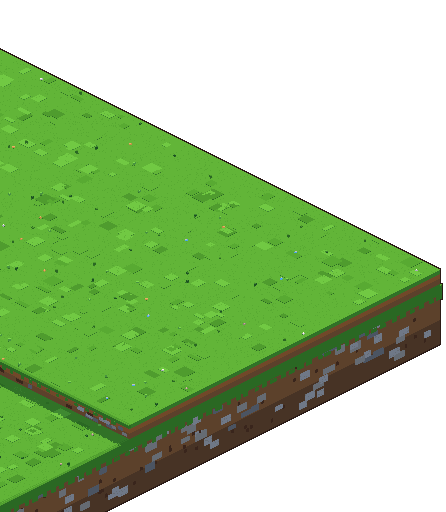
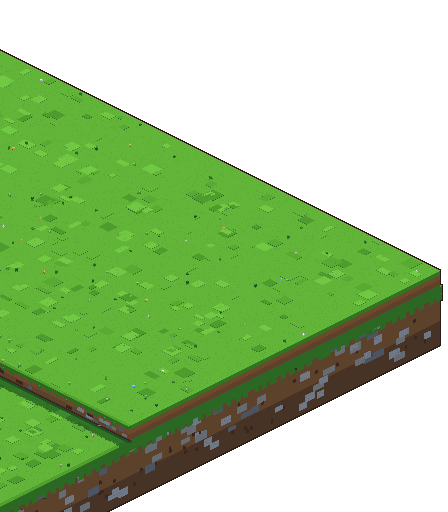
Town step 4: terraces fix round 1 (hidden low ground, cliff clicks, ramp entrances, cliff shadow, art sync guard)
- grid blocks the low ground hidden behind west/north-facing cliffs (2 cells per
  14-unit step), so nobody stands where the hill top is drawn over them.
- toWorld marches the pixel's ray from the front: a hill top wins over the low
  ground behind it, and a click on a cliff face snaps to the open cell at its base.
- Trees moved off the ramp entrances and out of the hidden strip.
- Terrain art: a contact shadow at each cliff foot; terrain.json carries a
  levelsHash of town.json levels and ramps, checked by art-output.test.

Claude-Session: https://claude.ai/code/session_01PNVRsGpaL8ajqgKm3RZjXP

diff --git a/public/town-render.js b/public/town-render.js
@@ -11,7 +11,7 @@
   const MIN_W = 900, MIN_H = 560; // css px of map that must stay in view
   const CHAR_CAP = 128; // soft cap on cached character textures; own agents and friends share it, and lruEvict never drops one on screen
   const FEET = [9, 25]; // OfficeSprites pixel under the feet (same as office-world drawPerson)
-  let O = [961, 32]; // terrain.json originPx; mount() replaces it with the loaded value
+  let O = [961, 33]; // terrain.json originPx; mount() replaces it with the loaded value
 
   const project = (x, y, z) => [O[0] + K * (x - y), O[1] + K2 * (x + y) - z];
   // Inverse of project at z = 0: terrain px -> world units.
@@ -90,13 +90,25 @@
     const cl = (v, half, size) => size <= half * 2 ? size / 2 : Math.min(size - half, Math.max(half, v));
     return { left: cl(px, w / 2, tw) - w / 2, top: cl(py, h / 2, th) - h / 2, w, h };
   }
-  // css px inside the canvas -> world x,y on the ground, for a laid-out view (k: backing px per css px). Unproject at z = 0,
-  // then twice more at the ground height found there (enough for 14-unit steps).
+  // css px inside the canvas -> world x,y on the ground, for a laid-out view (k: backing px per css px). With land levels the
+  // pixel's ray is marched from the front (nearest the camera) back until it meets the ground: the first hit is what the
+  // pixel shows, so a hill top wins over the low ground hidden behind it. A hit on a level top or ramp is refined by
+  // re-projecting at heightAt; a hit on a cliff face snaps to the low ground at the cliff's base, just in front of it.
   function toWorldAt(cx, cy, left, top, zoom, k) {
-    const sx = left + cx * k / zoom, sy = top + cy * k / zoom;
-    let p = unproject(sx, sy);
-    for (let i = 0; i < 2; i++) p = unproject(sx, sy + (root.TownMap ? root.TownMap.heightAt(M, p[0], p[1]) : 0));
-    return p;
+    const sx = left + cx * k / zoom, sy = top + cy * k / zoom, TM = root.TownMap, p0 = unproject(sx, sy);
+    const top_ = M && TM ? Math.max(0, ...(M.levels || []).map(t => t.level)) * TM.LEVEL_H : 0;
+    if (!top_) return p0;
+    const H = (x, y) => TM.heightAt(M, x, y), STEP = 0.5, RISE = 2 * K2; // along the ray (+1, +1) per unit, z rises 2 x K2
+    let prev = null;
+    for (let s = Math.ceil(top_ / RISE / STEP) * STEP; s >= 0; s -= STEP) {
+      const q = [p0[0] + s, p0[1] + s], z = s * RISE, h = H(q[0], q[1]);
+      if (h < z - 1e-6) { prev = q; continue; }
+      if (prev && H(prev[0], prev[1]) < h - 1e-6 && h - z > RISE * STEP + 1e-6) return prev; // entered under a higher top: a cliff face, so its base
+      let p = unproject(sx, sy + h);
+      for (let i = 0; i < 2; i++) p = unproject(sx, sy + H(p[0], p[1]));
+      return p;
+    }
+    return p0;
   }
   // Backing store = css px x renderScale (G.renderScale already has the HiDPI cap applied, so dpr is 1 here), and the zoom.
   function backingSize(canvas, G) {

diff --git a/public/town-map.js b/public/town-map.js
@@ -43,6 +43,16 @@
       if (!v || onRamp(cc, r)) continue;
       if ([[1, 0], [-1, 0], [0, 1], [0, -1]].some(([dc, dr]) => { const a = cc + dc, b = r + dr; return a >= 0 && b >= 0 && a < cols && b < rows && lv(a, b) < v; }))
         out.push([cc * c, r * c, cc * c + c, r * c + c]);
+      // A west- or north-facing cliff faces away from the camera: its raised top is drawn over the low ground just behind
+      // it (the lift / (2 x 0.3536) units deep), so a walker there would show on top of the hill. Block that strip.
+      for (const [dc, dr] of [[-1, 0], [0, -1]]) {
+        const low = cc + dc >= 0 && r + dr >= 0 ? lv(cc + dc, r + dr) : v;
+        if (low >= v) continue;
+        for (let k = 1, n = Math.ceil((v - low) * LEVEL_H / 0.7071 / c); k <= n; k++) {
+          const a = cc + dc * k, b = r + dr * k;
+          if (a >= 0 && b >= 0 && !onRamp(a, b)) out.push([a * c, b * c, a * c + c, b * c + c]);
+        }
+      }
     }
     for (const { rect: [x0, y0, x1, y1], dir } of d.ramps || [])
       out.push(...(dir === 'n' || dir === 's' ? [[x0 - c, y0, x0, y1], [x1, y0, x1 + c, y1]] : [[x0, y0 - c, x1, y0], [x0, y1, x1, y1 + c]]));

diff --git a/art/blender/town_terrain.py b/art/blender/town_terrain.py
@@ -81,6 +81,8 @@ for r, lv in sorted(LEVELS, key=lambda t: t[1]):
     for (a, b) in spans(x0, x1, [(n[0], n[2]) for n in notches]):  # south (+y) face, seen from the camera
         if y1 >= D: continue
         box(a, y1 - 0.2, H - 0.3, b - a, 0.35, 0.3, '#4f8f35')  # a thin grass lip, so the soil face shows
+        z0 = base(a, y1 + .1)  # contact shadow on the low ground at the cliff foot, so the step reads as height
+        box(a, y1, z0 + 0.04, b - a + 0.5, 0.55, 0.02, '#3f7a2c'); box(a, y1, z0 + 0.05, b - a + 0.25, 0.22, 0.02, '#5a3a28')
         for i in range(int((b - a) / 1.3)): box(a + i * 1.3 + rnd.uniform(0, .3), y1 + 0.15, H - 0.55, rnd.uniform(.3, .7), 0.1, rnd.uniform(.2, .35), '#4f8f35')
         for _ in range(int((b - a) * 1.2)):
             z0 = base(rnd.uniform(a, b), y1 + .1)
@@ -88,6 +90,8 @@ for r, lv in sorted(LEVELS, key=lambda t: t[1]):
     for (a, b) in spans(y0, y1, [(n[1], n[3]) for n in notches]):  # east (+x) face
         if x1 >= W: continue
         box(x1 - 0.2, a, H - 0.3, 0.35, b - a, 0.3, '#4f8f35')
+        z0 = base(x1 + .1, a)
+        box(x1, a, z0 + 0.04, 0.55, b - a, 0.02, '#3f7a2c'); box(x1, a, z0 + 0.05, 0.22, b - a, 0.02, '#5a3a28')
         for i in range(int((b - a) / 1.3)): box(x1 + 0.15, a + i * 1.3 + rnd.uniform(0, .3), H - 0.55, 0.1, rnd.uniform(.3, .7), rnd.uniform(.2, .35), '#4f8f35')
         for _ in range(int((b - a) * 1.2)):
             z0 = base(x1 + .1, rnd.uniform(a, b))
@@ -172,5 +176,8 @@ for (x0, y0, x1, y1) in BRIDGES:
 kit.flush('terrain')
 w, h, ox, oy = kit.frame(kit.bounds(), 3)
 kit.render(os.path.join(out, 'terrain.png'))
-json.dump({'originPx': [ox, oy]}, open(os.path.join(out, 'terrain.json'), 'w', newline='\n'))
+# levelsHash: art-output.test checks it against town.json, so editing levels or ramps without rerunning the art fails a test
+import hashlib
+sig = ';'.join(','.join(str(v) for v in t['rect']) + ':' + str(t['level']) for t in town.get('levels', [])) + '|' + ';'.join(','.join(str(v) for v in r['rect']) + ':' + r['dir'] for r in town.get('ramps', []))
+json.dump({'originPx': [ox, oy], 'levelsHash': hashlib.sha256(sig.encode()).hexdigest()[:16]}, open(os.path.join(out, 'terrain.json'), 'w', newline='\n'))
 print('TERRAIN', w, h, ox, oy)

diff --git a/art/post.py b/art/post.py
@@ -142,7 +142,7 @@ def build(raw, out, office_out=None):
         for c in range(cols_n):
             ch = tp.crop((c * CHUNK, r * CHUNK, min(TW, (c + 1) * CHUNK), min(TH, (r + 1) * CHUNK))); ch.info['transparency'] = ncols
             save_p(ch, os.path.join(out, 'terrain', f'r{r}c{c}.png'))
-    json.dump({'originPx': tmeta['originPx'], 'chunk': CHUNK, 'cols': cols_n, 'rows': rows_n, 'size': [TW, TH]}, open(os.path.join(out, 'terrain.json'), 'w', newline='\n'), indent=1)
+    json.dump({'originPx': tmeta['originPx'], 'levelsHash': tmeta.get('levelsHash', ''), 'chunk': CHUNK, 'cols': cols_n, 'rows': rows_n, 'size': [TW, TH]}, open(os.path.join(out, 'terrain.json'), 'w', newline='\n'), indent=1)
     print(f'palette {ncols} colours; atlas {W}x{H}; terrain {TW}x{TH} in {cols_n}x{rows_n} chunks')
     if office_out: build_office(load(os.path.join(raw, 'office')), office_out)
 
